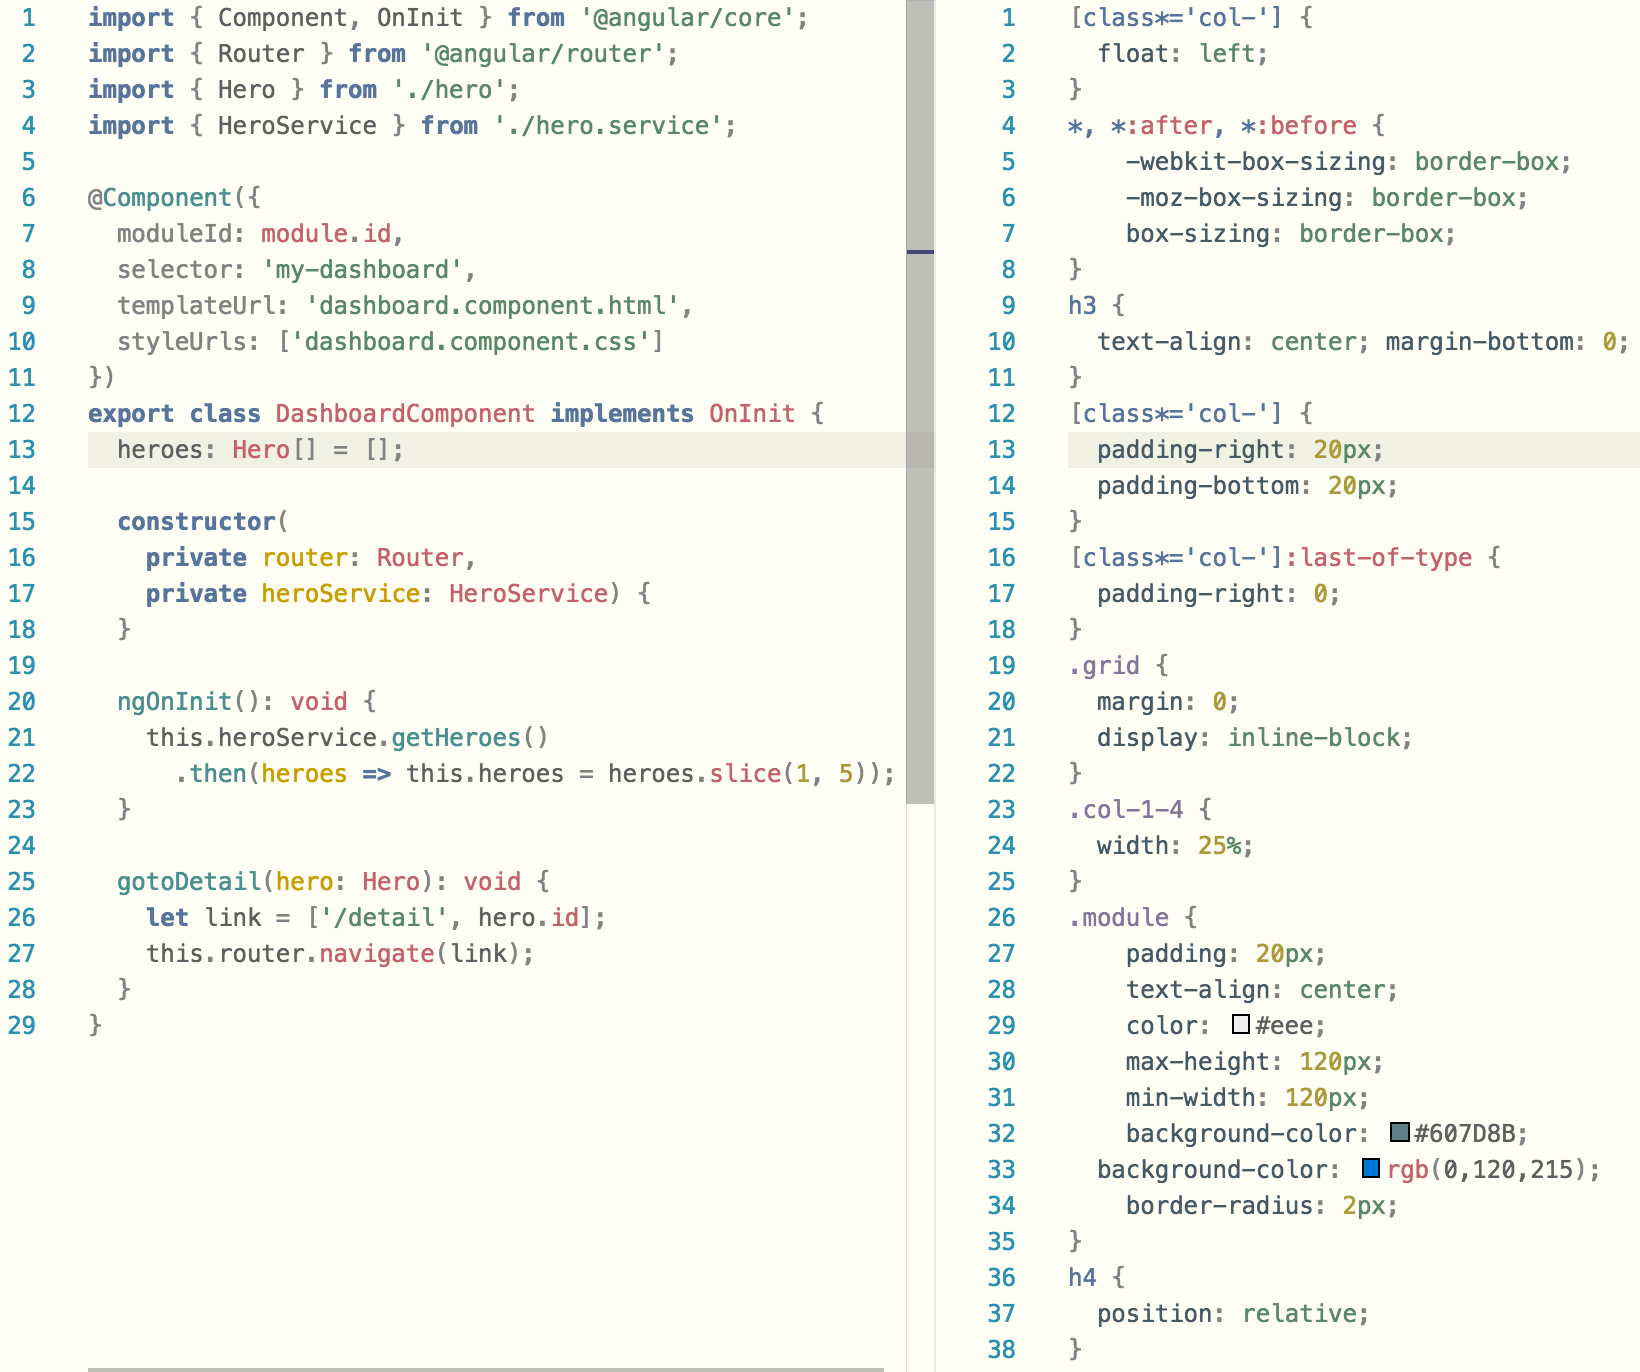
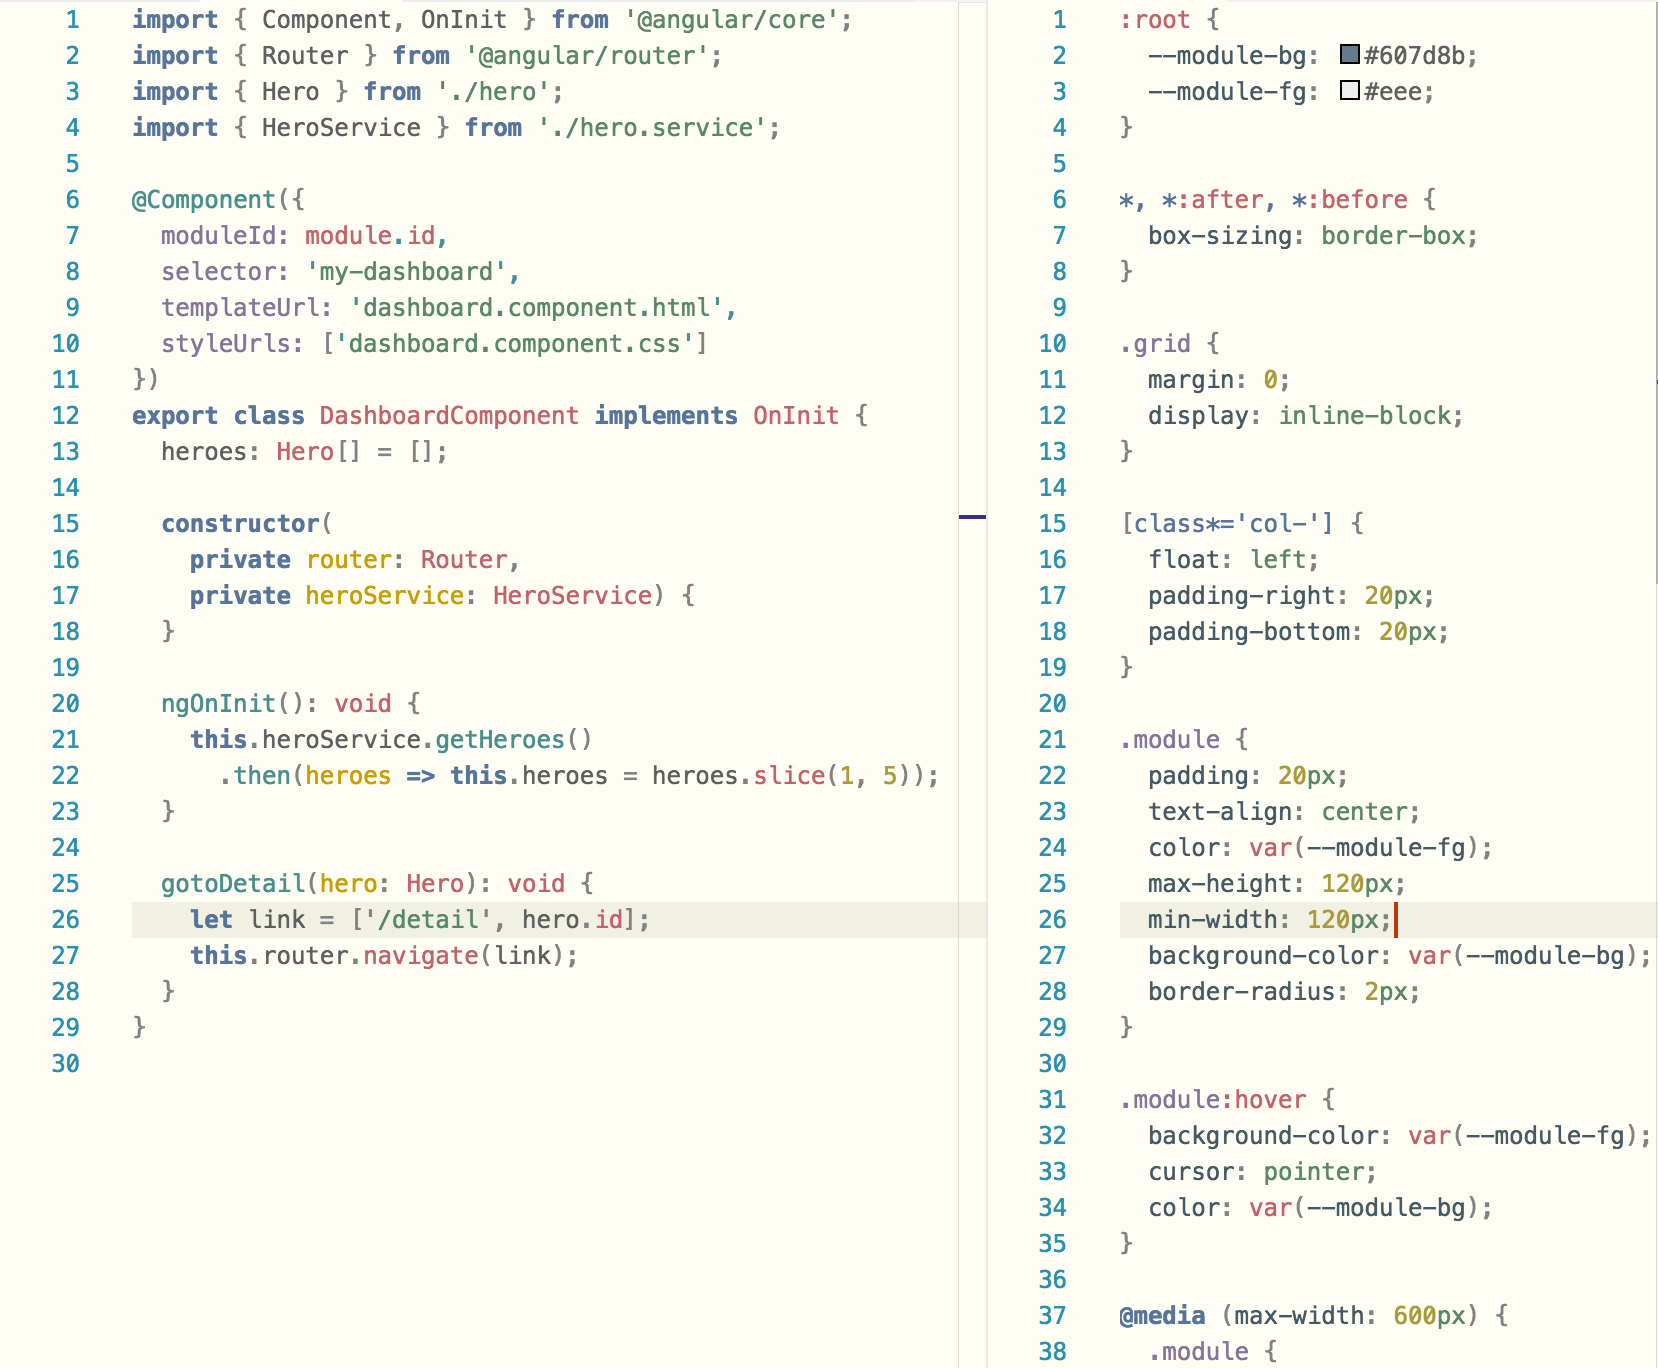
release 1.1.0
- Changed JSON property name color
- Changed CSS `@media` constants color
- Changed `new`, `this` and `super` keyword color
- Changed `decorator` color
- Changed `object literal key` color
- Better colors for `SCSS`
- Better colors for nested selectors

Changed region(s): [[0.0, 0.0, 1.0, 1.0], [0.653, 0.0, 0.964, 0.1842], [0.0622, 0.9825, 0.5287, 1.0]]

diff --git a/CHANGELOG.md b/CHANGELOG.md
@@ -1,3 +1,12 @@
+### 1.1.0
+- Changed JSON property name color
+- Changed CSS `@media` constants color
+- Changed `new`, `this` and `super` keyword color
+- Changed `decorator` color
+- Changed `object literal key` color
+- Better colors for `SCSS`
+- Better colors for nested selectors
+
 ### 1.0.4
 
 - fixed foreground for invalid scope
